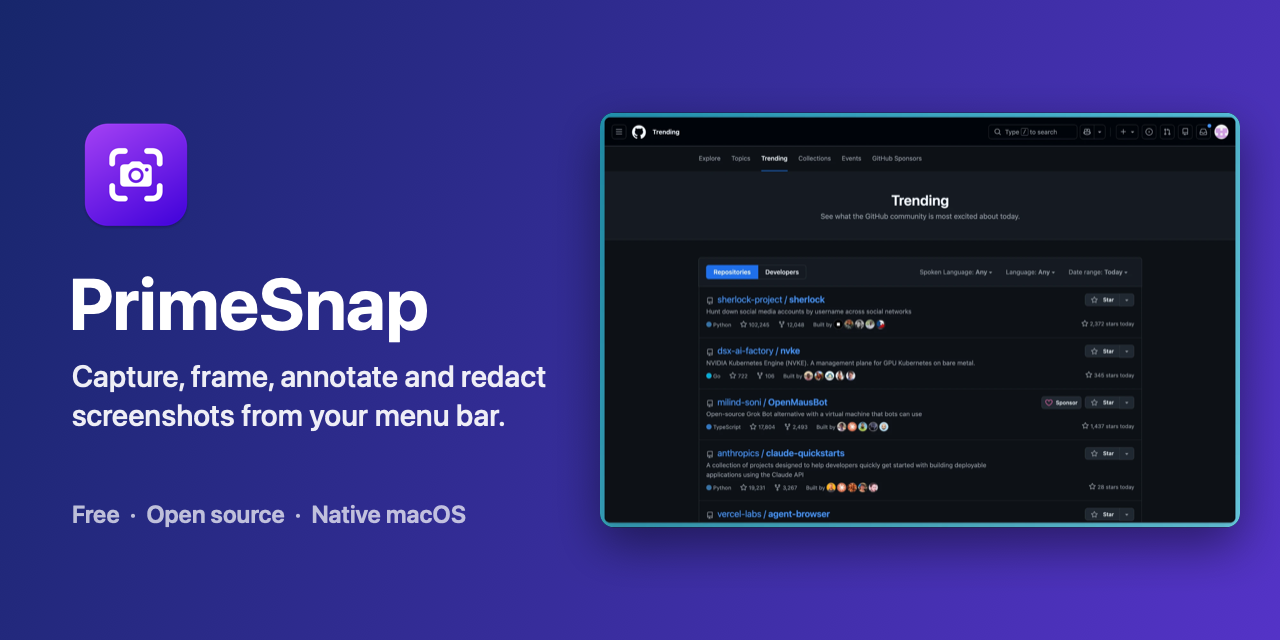
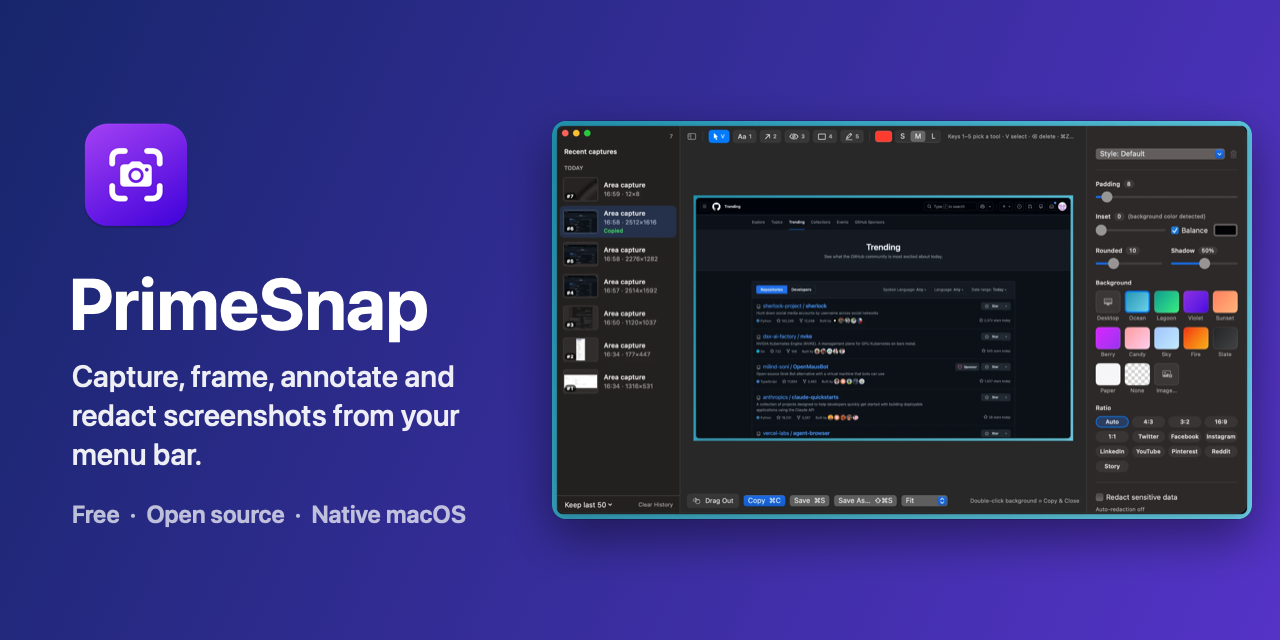
Social preview: show the editor instead of an exported image
Claude-Session: https://claude.ai/code/session_01D6HwWgWGryva8HXKQTTEgR

Changed region(s): [[0.0625, 0.1562, 1.0, 0.8438], [0.6562, 0.375, 0.7188, 0.4062]]

diff --git a/scripts/make-social-preview.swift b/scripts/make-social-preview.swift
@@ -9,7 +9,7 @@ func load(_ path: String) -> NSImage {
     return img
 }
 let icon = load("docs/icon.png")
-let shot = load("docs/result.png")
+let shot = load("docs/screenshot.png") // the editor itself, not just an output
 
 let rep = NSBitmapImageRep(
     bitmapDataPlanes: nil, pixelsWide: Int(W), pixelsHigh: Int(H), bitsPerSample: 8, samplesPerPixel: 4,
@@ -41,13 +41,13 @@ func text(_ s: String, _ font: NSFont, _ alpha: CGFloat, at p: NSPoint, width: C
     str.draw(with: NSRect(x: p.x, y: p.y - size.height, width: width, height: size.height), options: [.usesLineFragmentOrigin])
 }
 text("PrimeSnap", .systemFont(ofSize: 72, weight: .bold), 1, at: NSPoint(x: left - 3, y: 380))
-text("Capture, frame, annotate and redact screenshots from your menu bar.", .systemFont(ofSize: 30, weight: .medium), 0.92, at: NSPoint(x: left, y: 282), width: 500)
+text("Capture, frame, annotate and redact screenshots from your menu bar.", .systemFont(ofSize: 30, weight: .medium), 0.92, at: NSPoint(x: left, y: 282), width: 460)
 text("Free  ·  Open source  ·  Native macOS", .systemFont(ofSize: 24, weight: .semibold), 0.7, at: NSPoint(x: left, y: 140))
 
 // Right: a framed result with a soft shadow.
-let shotW: CGFloat = 640
+let shotW: CGFloat = 700
 let shotH = shotW * shot.size.height / shot.size.width
-let shotRect = NSRect(x: W - shotW - 40, y: (H - shotH) / 2, width: shotW, height: shotH)
+let shotRect = NSRect(x: W - shotW - 28, y: (H - shotH) / 2, width: shotW, height: shotH)
 ctx.saveGState()
 ctx.setShadow(offset: CGSize(width: 0, height: -18), blur: 50, color: NSColor.black.withAlphaComponent(0.45).cgColor)
 NSColor.black.setFill()
